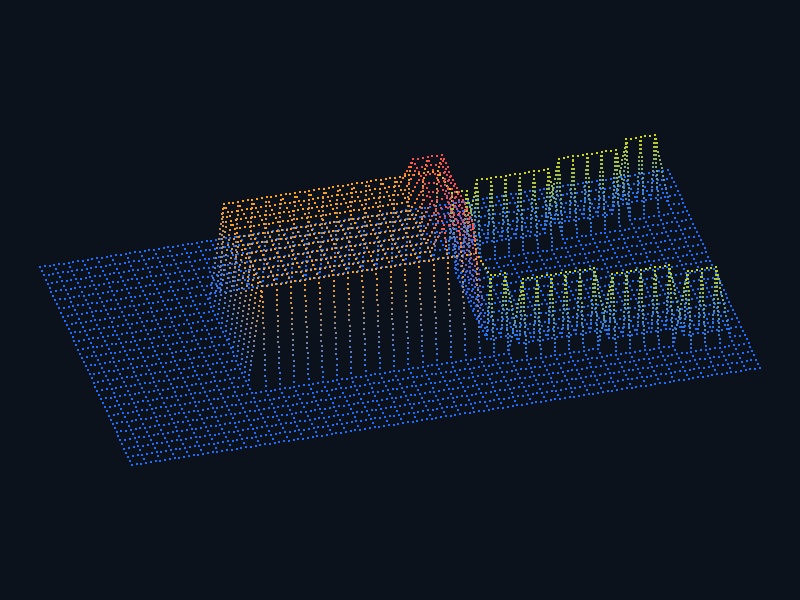
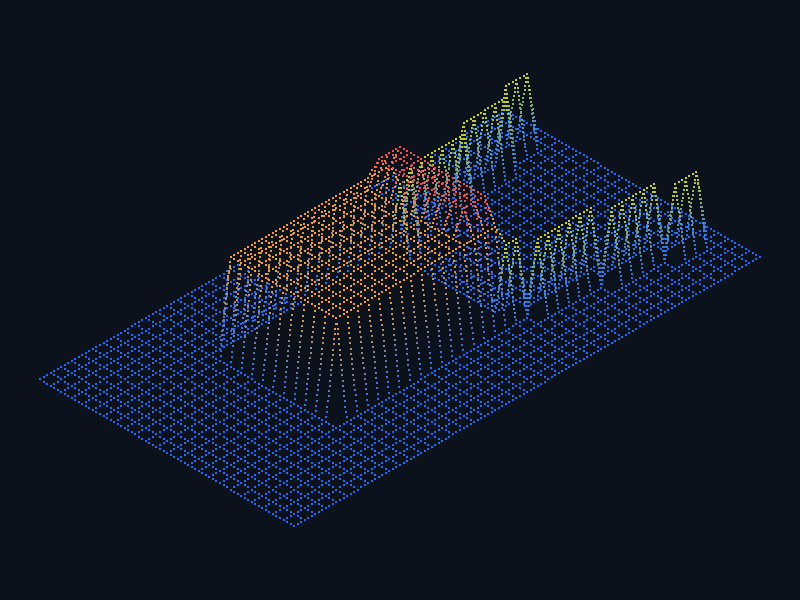
Восстановить вращение камеры стрелками

Changed region(s): [[0.0625, 0.15, 0.9375, 0.87]]

diff --git a/fdf/app.py b/fdf/app.py
@@ -8,6 +8,8 @@ from .model import Map, Point
 from .parser import parse_map
 from .projection import Camera, height_color, lerp_color
 
+ZOOM_FACTOR = 1.1
+
 
 class App:
     def __init__(self, map_data: Map | str, width: int = 800, height: int = 600) -> None:
@@ -16,9 +18,6 @@ class App:
         self.height = height
         self.camera = Camera()
         self.camera.fit(self.map, width, height)
-        self.z_scale = self.camera.z_scale
-        self.isometric = True
-        self.angle = self.camera.angle
 
     def _iter_edges(self) -> Iterable[tuple[Point, Point]]:
         for y, row in enumerate(self.map.points):
@@ -58,6 +57,32 @@ class App:
             self._draw_line(screen, start_pos, end_pos, start_color, end_color)
         pygame.display.flip()
 
+    def _handle_control(
+        self,
+        event: pygame.event.Event,
+        mouse_pos: tuple[int, int],
+    ) -> None:
+        if event.type == pygame.MOUSEWHEEL:
+            wheel_y = -event.y if getattr(event, "flipped", False) else event.y
+            if wheel_y:
+                self.camera.zoom(ZOOM_FACTOR**wheel_y, *mouse_pos)
+        elif event.type == pygame.KEYDOWN:
+            if event.key == pygame.K_EQUALS:
+                self.camera.z_scale += 0.5
+                self.camera.fit(self.map, self.width, self.height)
+            elif event.key == pygame.K_MINUS:
+                self.camera.z_scale = max(0.1, self.camera.z_scale - 0.5)
+                self.camera.fit(self.map, self.width, self.height)
+            elif event.key == pygame.K_LEFT:
+                self.camera.angle -= 5.0
+                self.camera.fit(self.map, self.width, self.height)
+            elif event.key == pygame.K_RIGHT:
+                self.camera.angle += 5.0
+                self.camera.fit(self.map, self.width, self.height)
+            elif event.key == pygame.K_v:
+                self.camera.top_view = not self.camera.top_view
+                self.camera.fit(self.map, self.width, self.height)
+
     def run(self) -> None:
         pygame.init()
         pygame.display.set_caption("FdF")
@@ -73,24 +98,10 @@ class App:
                 elif event.type == pygame.VIDEORESIZE:
                     self.width, self.height = event.w, event.h
                     self.camera.fit(self.map, self.width, self.height)
-                elif event.type == pygame.KEYDOWN:
-                    if event.key == pygame.K_ESCAPE:
-                        running = False
-                    elif event.key == pygame.K_EQUALS:
-                        self.camera.z_scale += 0.5
-                        self.camera.fit(self.map, self.width, self.height)
-                    elif event.key == pygame.K_MINUS:
-                        self.camera.z_scale = max(0.1, self.camera.z_scale - 0.5)
-                        self.camera.fit(self.map, self.width, self.height)
-                    elif event.key == pygame.K_LEFT:
-                        self.camera.angle -= 5.0
-                        self.camera.fit(self.map, self.width, self.height)
-                    elif event.key == pygame.K_RIGHT:
-                        self.camera.angle += 5.0
-                        self.camera.fit(self.map, self.width, self.height)
-                    elif event.key == pygame.K_v:
-                        self.camera.angle = 0.0 if self.camera.angle != 0.0 else 30.0
-                        self.camera.fit(self.map, self.width, self.height)
+                elif event.type == pygame.KEYDOWN and event.key == pygame.K_ESCAPE:
+                    running = False
+                else:
+                    self._handle_control(event, pygame.mouse.get_pos())
 
             self.draw(screen)
             clock.tick(60)

diff --git a/fdf/projection.py b/fdf/projection.py
@@ -47,10 +47,12 @@ def height_color(z: int, z_min: int, z_max: int) -> str:
 
 
 class Camera:
-    def __init__(self, angle: float = 30.0, z_scale: float = 1.0) -> None:
+    def __init__(self, angle: float = 0.0, z_scale: float = 1.0) -> None:
         self.angle = angle
         self.z_scale = z_scale
+        self.top_view = False
         self.scale = 1.0
+        self._fit_scale = 1.0
         self.offset_x = 0.0
         self.offset_y = 0.0
 
@@ -58,6 +60,9 @@ class Camera:
         theta = math.radians(self.angle)
         rotated_x = point.x * math.cos(theta) - point.y * math.sin(theta)
         rotated_y = point.x * math.sin(theta) + point.y * math.cos(theta)
+
+        if self.top_view:
+            return rotated_x, rotated_y
 
         x_offset = (rotated_x - rotated_y) * math.cos(math.radians(30.0))
         y_offset = (rotated_x + rotated_y) * math.sin(math.radians(30.0)) - point.z * self.z_scale
@@ -67,9 +72,24 @@ class Camera:
         x_value, y_value = self._project_raw(point)
         return x_value * self.scale + self.offset_x, y_value * self.scale + self.offset_y
 
+    def pan(self, dx: float, dy: float) -> None:
+        self.offset_x += dx
+        self.offset_y += dy
+
+    def zoom(self, factor: float, anchor_x: float, anchor_y: float) -> None:
+        if factor <= 0:
+            raise ValueError("zoom factor must be positive")
+
+        new_scale = min(max(self.scale * factor, self._fit_scale * 0.1), self._fit_scale * 10.0)
+        applied_factor = new_scale / self.scale
+        self.offset_x = anchor_x - (anchor_x - self.offset_x) * applied_factor
+        self.offset_y = anchor_y - (anchor_y - self.offset_y) * applied_factor
+        self.scale = new_scale
+
     def fit(self, map_data: Map, width: float, height: float) -> tuple[float, float, float]:
         if not map_data.points:
             self.scale = 1.0
+            self._fit_scale = self.scale
             self.offset_x = 0.0
             self.offset_y = 0.0
             return self.scale, self.offset_x, self.offset_y
@@ -83,6 +103,7 @@ class Camera:
         height_span = max(height_span, 1.0)
 
         self.scale = min(width / width_span, height / height_span) * 0.9
+        self._fit_scale = self.scale
         center_x = (min(xs) + max(xs)) / 2.0
         center_y = (min(ys) + max(ys)) / 2.0
         self.offset_x = width / 2.0 - center_x * self.scale

diff --git a/tests/test_app_controls.py b/tests/test_app_controls.py
@@ -1,0 +1,63 @@
+import pygame
+
+from fdf.app import App
+from fdf.parser import parse_map
+
+
+def create_app() -> App:
+    return App(parse_map("maps/elem.fdf"))
+
+
+def test_v_toggles_top_view() -> None:
+    app = create_app()
+    event = pygame.event.Event(pygame.KEYDOWN, key=pygame.K_v)
+
+    app._handle_control(event, (0, 0))
+    assert app.camera.top_view
+    app._handle_control(event, (0, 0))
+    assert not app.camera.top_view
+
+
+def test_left_and_right_rotate_around_centered_map() -> None:
+    app = create_app()
+    start_angle = app.camera.angle
+
+    app._handle_control(pygame.event.Event(pygame.KEYDOWN, key=pygame.K_LEFT), (0, 0))
+    assert app.camera.angle == start_angle - 5.0
+    app._handle_control(pygame.event.Event(pygame.KEYDOWN, key=pygame.K_RIGHT), (0, 0))
+    assert app.camera.angle == start_angle
+
+    projected = [app.camera.project(point) for point in app.map]
+    xs = [point[0] for point in projected]
+    ys = [point[1] for point in projected]
+    assert (min(xs) + max(xs)) / 2 == app.width / 2
+    assert (min(ys) + max(ys)) / 2 == app.height / 2
+
+
+def test_up_and_down_do_not_pan_or_rotate() -> None:
+    app = create_app()
+    start_angle = app.camera.angle
+    start_offset = (app.camera.offset_x, app.camera.offset_y)
+
+    app._handle_control(pygame.event.Event(pygame.KEYDOWN, key=pygame.K_UP), (0, 0))
+    app._handle_control(pygame.event.Event(pygame.KEYDOWN, key=pygame.K_DOWN), (0, 0))
+
+    assert app.camera.angle == start_angle
+    assert (app.camera.offset_x, app.camera.offset_y) == start_offset
+
+
+def test_mouse_wheel_zoom_anchors_at_pointer() -> None:
+    app = create_app()
+    point = app.map.points[2][2]
+    pointer = app.camera.project(point)
+    start_scale = app.camera.scale
+
+    app._handle_control(
+        pygame.event.Event(pygame.MOUSEWHEEL, y=1, flipped=False),
+        (round(pointer[0]), round(pointer[1])),
+    )
+
+    assert app.camera.scale > start_scale
+    projected = app.camera.project(point)
+    assert abs(projected[0] - pointer[0]) < 1.0
+    assert abs(projected[1] - pointer[1]) < 1.0

diff --git a/tests/test_projection.py b/tests/test_projection.py
@@ -1,3 +1,5 @@
+import pytest
+
 from fdf.model import Map, Point
 from fdf.projection import Camera, height_color, lerp_color
 
@@ -14,11 +16,48 @@ def test_projection_height_is_negative() -> None:
     assert projected[1] < 0
 
 
+def test_isometric_projection_uses_expected_axes() -> None:
+    camera = Camera()
+    assert camera.project(Point(1, 0, 0)) == pytest.approx((0.8660254037844386, 0.5))
+    assert camera.project(Point(0, 1, 0)) == pytest.approx((-0.8660254037844386, 0.5))
+
+
+def test_top_view_uses_xy_and_ignores_height() -> None:
+    camera = Camera()
+    camera.top_view = True
+    assert camera.project(Point(3, 4, 20)) == (3.0, 4.0)
+
+
+def test_top_view_can_rotate_without_using_height() -> None:
+    camera = Camera(angle=90.0)
+    camera.top_view = True
+    assert camera.project(Point(1, 0, 100)) == pytest.approx((0.0, 1.0))
+
+
 def test_vertical_rotation_rotates_map_in_xy_plane() -> None:
     camera = Camera(angle=90.0, z_scale=1.0)
     projected = camera.project(Point(1, 0, 0))
     assert projected[0] != 0.0
     assert projected[1] != 0.0
+
+
+def test_pan_moves_projected_points() -> None:
+    camera = Camera()
+    point = Point(1, 2, 0)
+    before = camera.project(point)
+    camera.pan(12, -8)
+    after = camera.project(point)
+    assert after == (before[0] + 12, before[1] - 8)
+
+
+def test_zoom_keeps_anchor_fixed() -> None:
+    camera = Camera()
+    camera.fit(Map([[Point(0, 0, 0), Point(2, 0, 1)], [Point(0, 2, 0), Point(2, 2, 0)]]), 800, 600)
+    point = Point(1, 1, 0)
+    anchor = camera.project(point)
+    camera.zoom(2.0, *anchor)
+    assert camera.scale == camera._fit_scale * 2.0
+    assert camera.project(point) == pytest.approx(anchor)
 
 
 def test_camera_fit_keeps_points_in_window() -> None:

diff --git a/README.md b/README.md
@@ -25,9 +25,10 @@ python main.py maps/elem.fdf
 
 | Клавиша | Действие |
 | --- | --- |
-| `←` / `→` | Повернуть карту |
+| `←` / `→` | Повернуть камеру вокруг рисунка |
+| Колесо мыши | Масштабировать относительно курсора |
 | `=` / `-` | Увеличить / уменьшить вертикальный масштаб |
-| `V` | Переключить угол камеры между 0° и 30° |
+| `V` | Переключить изометрию / вид сверху |
 | `Esc` | Закрыть окно |
 
 ## Формат карты
